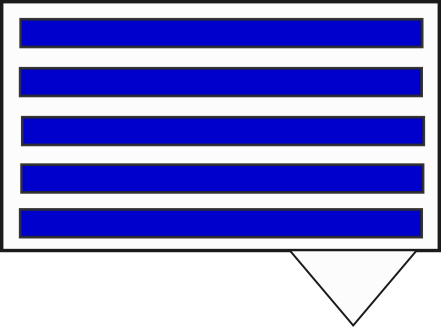
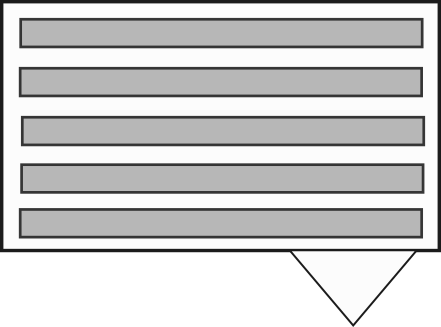
Color changes

diff --git a/styles/feed.css b/styles/feed.css
@@ -11,7 +11,7 @@ html {
 #banner {
   display: grid;
   grid-template-rows: 2fr 1fr;
-  background-color: #ace600;
+  background-color: #bace7e;
   border: 1px solid #2b2b2b;
   padding: 10px;
   margin: 0px 0px 10px 0px
@@ -34,7 +34,7 @@ html {
 .feed-post {
   display: grid;
   grid-template-columns: 2fr 1 fr;
-  background-color: #f3fce9;
+  background-color: #f5f8ed;
   border: 1px outset lightgray;
   padding: 5px;
   margin: 5px 1px 1px 1px;
